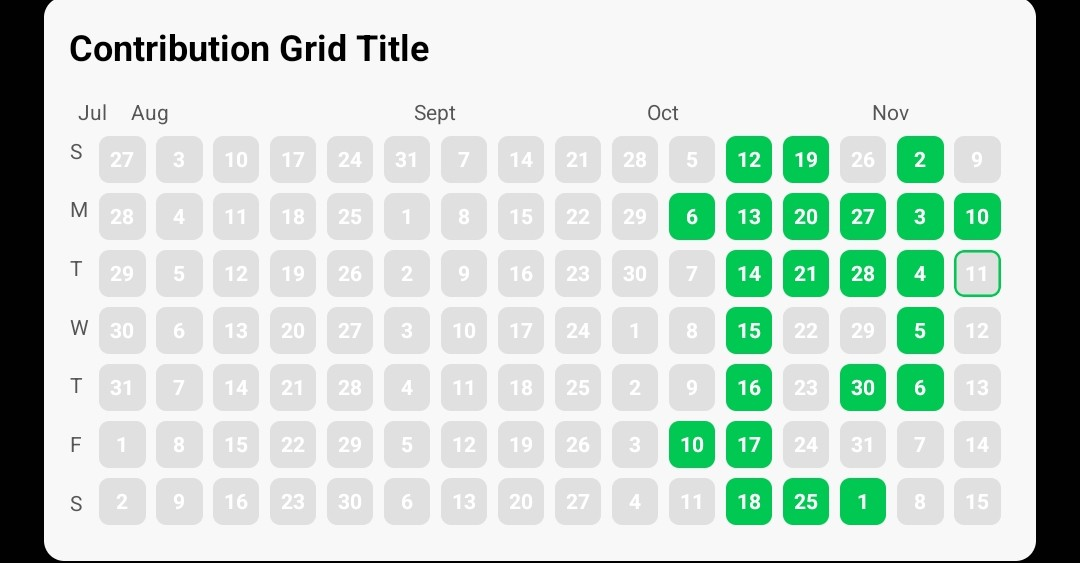
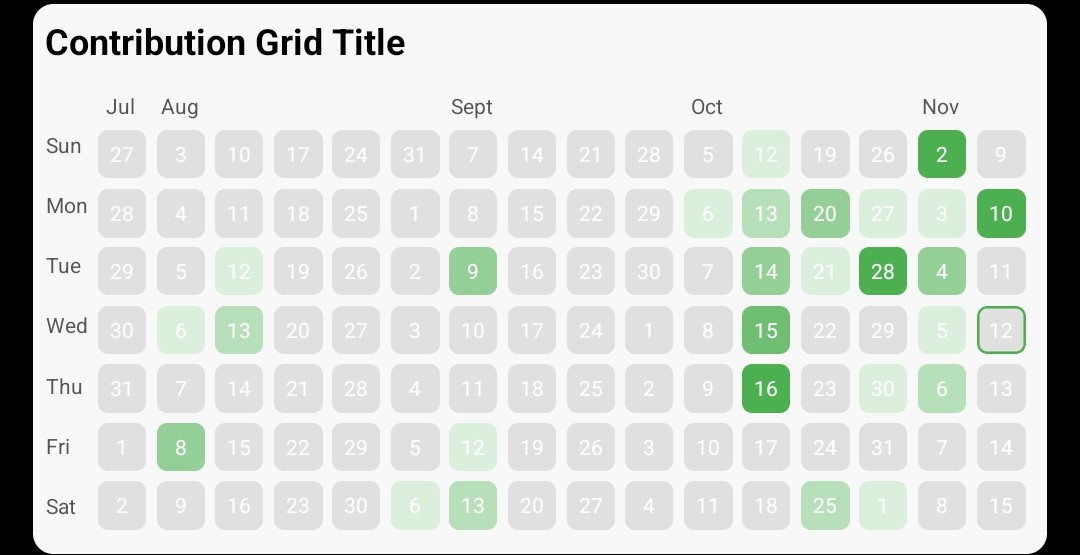
heat map functionality added

diff --git a/src/ContributionGrid.js b/src/ContributionGrid.js
@@ -1,11 +1,37 @@
 import React from "react";
 import { Dimensions, StyleSheet, Text, View } from "react-native";
 
+// ✅ Enhanced HEX → RGB converter (supports #RGB and #RRGGBB)
+const hexToRgb = (hex) => {
+  const sanitized = hex.replace("#", "");
+  const fullHex =
+    sanitized.length === 3
+      ? sanitized
+          .split("")
+          .map((c) => c + c)
+          .join("")
+      : sanitized;
+
+  const bigint = parseInt(fullHex, 16);
+  const r = (bigint >> 16) & 255;
+  const g = (bigint >> 8) & 255;
+  const b = bigint & 255;
+
+  return [r, g, b];
+};
+
+// ✅ Lighten/Darken a color based on factor
+const shadeColor = (color, factor) => {
+  const [r, g, b] = hexToRgb(color);
+  const mix = (c) =>
+    Math.min(255, Math.max(0, Math.floor(c * factor + 255 * (1 - factor))));
+  return `rgb(${mix(r)}, ${mix(g)}, ${mix(b)})`;
+};
+
 const ContributionGrid = ({
-  title = "title",
+  title = "Contributions",
   titleStyle = {},
-  showTitle = true,
-  data = [], // Example: [{ date: '2025-11-08', contributed: true }]
+  data = [],
   activeColor = "#4CAF50",
   inactiveColor = "#E0E0E0",
   backgroundColor = "#F8F8F8",
@@ -18,32 +44,44 @@ const ContributionGrid = ({
   showDate = true,
   showMonthLabels = true,
   showDayLabels = true,
+  showHeatmap = true,
 }) => {
-  const rows = 7; // Sunday to Saturday
+  const rows = 7;
   const today = new Date();
 
-  // Calculate start (first visible Sunday) and end (upcoming Saturday)
+  // --- Generate 5 dynamic heatmap shades ---
+  const heatmapColors = [
+    shadeColor(activeColor, 0.2), // level 1 (lightest)
+    shadeColor(activeColor, 0.4),
+    shadeColor(activeColor, 0.6),
+    shadeColor(activeColor, 0.8),
+    shadeColor(activeColor, 1.0), // level 5 (darkest)
+  ];
+
+  // --- Calculate visible range ---
   const daysSinceSunday = today.getDay();
   const endDate = new Date(today);
   endDate.setDate(today.getDate() + (6 - daysSinceSunday));
   const firstVisibleDate = new Date(endDate);
   firstVisibleDate.setDate(endDate.getDate() - (columns * 7 - 1));
 
-  // Generate all dates to display
+  // --- Generate grid dates ---
   const gridDates = Array.from({ length: columns * 7 }, (_, i) => {
     const d = new Date(firstVisibleDate);
     d.setDate(firstVisibleDate.getDate() + i);
     return d;
   });
 
-  // Convert input data into a map for faster lookup
+  // --- Create contribution map for fast lookup ---
   const contributionMap = {};
   data.forEach((item) => {
-    const dateKey = new Date(item.date).toDateString();
-    contributionMap[dateKey] = item.contributed;
+    const key = new Date(item.date).toDateString();
+    contributionMap[key] = {
+      contributed: !!item.contributed,
+      level: item.level ?? 1,
+    };
   });
 
-  // Helpers
   const isSameDay = (d1, d2) =>
     d1.getDate() === d2.getDate() &&
     d1.getMonth() === d2.getMonth() &&
@@ -56,7 +94,7 @@ const ContributionGrid = ({
     containerPadding * 2 -
     containerMargin * 2 -
     totalGapWidth -
-    30; // space for day labels
+    30;
   const adjustedCellSize = Math.min(cellSize, availableWidth / columns);
 
   const cellStyle = {
@@ -67,24 +105,35 @@ const ContributionGrid = ({
     alignItems: "center",
   };
 
+  // --- Month and Day Labels ---
   const monthLabels = [];
   let lastMonth = null;
-
   for (let c = 0; c < columns; c++) {
     const firstDateOfColumn = gridDates[c * rows];
     const monthName = firstDateOfColumn.toLocaleString("default", {
       month: "short",
     });
-
     if (monthName !== lastMonth) {
       monthLabels.push(monthName);
       lastMonth = monthName;
     } else {
-      monthLabels.push(""); // Empty label for same month
+      monthLabels.push("");
     }
   }
+  const dayLabels = ["Sun", "Mon", "Tue", "Wed", "Thu", "Fri", "Sat"];
 
-  const dayLabels = ["S", "M", "T", "W", "T", "F", "S"];
+  // --- Get cell color ---
+  const getCellColor = (dateKey, isFuture) => {
+    if (isFuture) return inactiveColor;
+    const entry = contributionMap[dateKey];
+    if (!entry || !entry.contributed) return inactiveColor;
+
+    if (!showHeatmap) return activeColor;
+
+    const { level } = entry;
+    const index = Math.min(Math.max(level, 1), 5) - 1; // clamp 1–5
+    return heatmapColors[index];
+  };
 
   return (
     <View
@@ -93,14 +142,16 @@ const ContributionGrid = ({
         { backgroundColor, margin: containerMargin, padding: containerPadding },
       ]}
     >
-      {showTitle && <Text style={titleStyle}>{title}</Text>}
+      <Text style={[{ fontWeight: "bold", marginBottom: 5 }, titleStyle]}>
+        {title}
+      </Text>
 
-      {/* Month labels row */}
+      {/* Month labels */}
       {showMonthLabels && (
         <View
           style={{
             flexDirection: "row",
-            // marginLeft: showDayLabels ? 30 : 0,
+            marginLeft: showDayLabels ? 20 : 0,
             marginBottom: 4,
           }}
         >
@@ -119,9 +170,8 @@ const ContributionGrid = ({
         </View>
       )}
 
-      {/* Main grid */}
+      {/* Grid section */}
       <View style={{ flexDirection: "row" }}>
-        {/* Day labels column */}
         {showDayLabels && (
           <View style={{ marginRight: 4, justifyContent: "space-between" }}>
             {dayLabels.map((d, i) => (
@@ -133,7 +183,6 @@ const ContributionGrid = ({
                   height: adjustedCellSize,
                 }}
               >
-                {/* {i % 2 === 0 ? d : ""} Show alternate day labels */}
                 {d}
               </Text>
             ))}
@@ -153,7 +202,6 @@ const ContributionGrid = ({
                 const dateKey = date.toDateString();
                 const isToday = isSameDay(date, today);
                 const isFuture = date > today;
-                const active = contributionMap[dateKey] === true;
 
                 return (
                   <View
@@ -161,11 +209,7 @@ const ContributionGrid = ({
                     style={[
                       cellStyle,
                       {
-                        backgroundColor: isFuture
-                          ? inactiveColor
-                          : active
-                          ? activeColor
-                          : inactiveColor,
+                        backgroundColor: getCellColor(dateKey, isFuture),
                         borderWidth: isToday ? 1 : 0,
                         borderColor: isToday ? borderColor : "transparent",
                         marginBottom: gap,
@@ -176,7 +220,6 @@ const ContributionGrid = ({
                       <Text
                         style={{
                           color: "#fff",
-                          fontWeight: "bold",
                           fontSize: 8,
                         }}
                       >

diff --git a/README.md b/README.md
@@ -1,11 +1,10 @@
 # 🟩 React Native Contribution Grid Heatmap
 
-A **beautiful and customizable contribution grid or heatmap** component for React Native apps — inspired by GitHub activity graphs.  
+A **beautiful and customizable contribution grid or heatmap** component for React Native apps — inspired by GitHub activity graphs.
 
 ---
 
 ## Installation
-
 
 ```bash
 npm install react-native-contribution-grid-heatmap
@@ -29,9 +28,9 @@ import { View } from "react-native";
 import ContributionGrid from "react-native-contribution-grid-heatmap";
 
 const contributionData = [
-  { date: "2025-10-06", contributed: true },
-  { date: "2025-10-10", contributed: true },
-  { date: "2025-11-04", contributed: true },
+  { date: "2025-10-06", contributed: true, level: 1 },
+  { date: "2025-10-10", contributed: true, level: 3 },
+  { date: "2025-11-04", contributed: true, level: 5 },
 ];
 
 export default function App() {
@@ -42,17 +41,7 @@ export default function App() {
         titleStyle={{ marginBottom: 10, fontWeight: "bold" }}
         showTitle={true}
         data={contributionData}
-        activeColor="#00C853"
-        inactiveColor="#E0E0E0"
-        borderColor="#00C853"
-        backgroundColor="#F8F8F8"
-        containerPadding={10}
-        containerMargin={10}
-        gap={4}
-        columns={16}
-        showDate={true}
-        showDayLabels={true}
-        showMonthLabels={true}
+        showHeatmap={true}
       />
     </View>
   );
@@ -84,17 +73,7 @@ export default function App() {
         titleStyle={{ marginBottom: 10, fontWeight: "bold" }}
         showTitle={false}
         data={contributionData}
-        activeColor="#00C853"
-        inactiveColor="#E0E0E0"
-        borderColor="#00C853"
-        backgroundColor="#F8F8F8"
-        containerPadding={10}
-        containerMargin={10}
-        gap={4}
-        columns={16}
-        showDate={false}
-        showDayLabels={false}
-        showMonthLabels={false}
+        showHeatmap={false}
       />
     </View>
   );
@@ -111,21 +90,22 @@ export default function App() {
 
 ## Props
 
-| Prop               | Type                                          | Default   | Description                   |
-| :----------------- | :-------------------------------------------- | :-------- | :---------------------------- |
-| `title`            | `String`                                      | `title`   | Title of contribution grid    |
-| `titleStyle`       | `Object`                                      | `{}`      | Style object for title        |
-| `showTitle`        | `Boolean`                                     | `true`    | Show title                    |
-| `data`             | `Array<{date: string, contributed: boolean}>` | `[]`      | Array of contribution data    |
-| `activeColor`      | `string`                                      | `#4CAF50` | Active cell color             |
-| `inactiveColor`    | `string`                                      | `#E0E0E0` | Inactive cell color           |
-| `backgroundColor`  | `string`                                      | `#F8F8F8` | Background color of grid      |
-| `borderColor`      | `string`                                      | `#4CAF50` | Border color for current date |
-| `containerPadding` | `number`                                      | `5`       | Padding around grid           |
-| `containerMargin`  | `number`                                      | `10`      | Margin around grid            |
-| `cellSize`         | `number`                                      | `20`      | Base size of each cell        |
-| `gap`              | `number`                                      | `4`       | Gap between cells             |
-| `columns`          | `number`                                      | `16`      | Number of columns (weeks)     |
-| `showDate`         | `Boolean`                                     | `true`    | Show date inside grid cell    |
-| `showDayLabels`    | `Boolean`                                     | `true`    | Show day labels on grid       |
-| `showMonthLabels`  | `Boolean`                                     | `true`    | Show month labels on grid     |
+| Prop               | Type                                                             | Default   | Description                   |
+| :----------------- | :--------------------------------------------------------------- | :-------- | :---------------------------- |
+| `title`            | `String`                                                         | `title`   | Title of contribution grid    |
+| `titleStyle`       | `Object`                                                         | `{}`      | Style object for title        |
+| `showTitle`        | `Boolean`                                                        | `true`    | Show title                    |
+| `data`             | `Array<{date: string, contributed: boolean, level:number(1-5)}>` | `[]`      | Array of contribution data    |
+| `activeColor`      | `string`                                                         | `#4CAF50` | Active cell color             |
+| `inactiveColor`    | `string`                                                         | `#E0E0E0` | Inactive cell color           |
+| `backgroundColor`  | `string`                                                         | `#F8F8F8` | Background color of grid      |
+| `borderColor`      | `string`                                                         | `#4CAF50` | Border color for current date |
+| `containerPadding` | `number`                                                         | `5`       | Padding around grid           |
+| `containerMargin`  | `number`                                                         | `10`      | Margin around grid            |
+| `cellSize`         | `number`                                                         | `20`      | Base size of each cell        |
+| `gap`              | `number`                                                         | `4`       | Gap between cells             |
+| `columns`          | `number`                                                         | `16`      | Number of columns (weeks)     |
+| `showDate`         | `Boolean`                                                        | `true`    | Show date inside grid cell    |
+| `showDayLabels`    | `Boolean`                                                        | `true`    | Show day labels on grid       |
+| `showMonthLabels`  | `Boolean`                                                        | `true`    | Show month labels on grid     |
+| `showHeatmap`      | `Boolean`                                                        | `true`    | Show heatmap                  |
